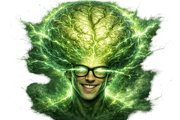
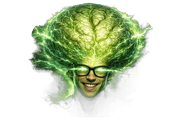
Hel mästarfigur i nyhetsbrevet och animationskälla i repot
fejs10.png var beskuren i topp och botten (cover). Nu passas hela figuren
in i 180x120 utan beskärning, som fejs1. Animationens källfil läggs i
verktyg/ så att den överlever tillfälliga miljöer.

Claude-Session: https://claude.ai/code/session_01HdwMojgAgKRZuA3uKCTgjp

diff --git a/verktyg/animation/anim.html b/verktyg/animation/anim.html
@@ -1,0 +1,303 @@
+<!DOCTYPE html>
+<html lang="sv">
+<head>
+<meta charset="utf-8">
+<title>Ordträningen: från nybörjare till mästare</title>
+<style>
+  /* Deterministisk animation som styrs helt av window.SEEK(t) från renderskriptet.
+     Inga CSS-animationer: varje bildruta beräknas från tiden t. */
+  * { margin: 0; padding: 0; box-sizing: border-box; }
+  html, body { width: 540px; height: 960px; overflow: hidden; }
+  body {
+    font-family: 'Segoe UI', system-ui, -apple-system, sans-serif;
+    background: linear-gradient(180deg, #f8fafc 0%, #eef2ff 100%);
+    color: #1a1a2e;
+    position: relative;
+  }
+
+  /* Bakgrundsord som driver långsamt uppåt bakom allt. */
+  .bgword { position: absolute; left: 0; top: 0; color: #cbd5e1; font-weight: 700; opacity: 0.4;
+    white-space: nowrap; will-change: transform; }
+
+  .brand { position: absolute; top: 64px; width: 100%; text-align: center;
+    font-size: 15px; font-weight: 700; letter-spacing: 0.22em; color: #2563eb; text-transform: uppercase; }
+
+  .headline { position: absolute; top: 96px; width: 100%; text-align: center; line-height: 1.16; }
+  .headline .l1 { display: block; font-size: 44px; font-weight: 800; color: #1a1a2e; }
+  .headline .l2 { display: block; font-size: 44px; font-weight: 800; color: #cbd5e1; }
+
+  /* Ringen ritas i SVG. Ansiktet ligger fritt OVANPÅ, aldrig i en klippande
+     behållare: ingen border-radius, ingen overflow, object-fit contain. */
+  .stage { position: absolute; left: 50%; top: 470px; width: 0; height: 0; }
+  .ringwrap { position: absolute; left: -230px; top: -230px; width: 460px; height: 460px; }
+  .ringwrap svg { display: block; width: 460px; height: 460px; }
+  .face { position: absolute; left: 50%; top: 50%; width: 300px; height: 300px; margin: -150px 0 0 -150px;
+    object-fit: contain; will-change: transform; }
+
+  .chip { position: absolute; top: 742px; width: 100%; text-align: center; }
+  .chip span { display: inline-block; font-size: 19px; font-weight: 800; letter-spacing: 0.09em;
+    text-transform: uppercase; color: #2563eb; background: #eef2ff; border-radius: 999px;
+    padding: 9px 26px; }
+  .chip.gold span { color: #b45309; background: #fffbeb; box-shadow: inset 0 0 0 2px #fde68a; }
+
+  .count { position: absolute; top: 800px; width: 100%; text-align: center;
+    font-size: 24px; color: #64748b; font-variant-numeric: tabular-nums; }
+  .count b { color: #1a1a2e; font-weight: 800; }
+
+  .endpill { position: absolute; top: 856px; width: 100%; text-align: center; }
+  .endpill span { display: inline-block; font-size: 26px; font-weight: 800; color: #fff;
+    background: #2563eb; border-radius: 999px; padding: 13px 34px;
+    box-shadow: 0 12px 30px rgba(37, 99, 235, 0.35); }
+  .endsub { position: absolute; top: 922px; width: 100%; text-align: center; font-size: 16px; color: #64748b; }
+
+  /* Ordchips som flyger in mot ringen. */
+  .flychip { position: absolute; left: 0; top: 0; font-size: 21px; font-weight: 700; color: #1a1a2e;
+    background: #fff; border: 1.5px solid #e2e8f0; border-radius: 999px; padding: 8px 20px;
+    box-shadow: 0 6px 18px rgba(15, 23, 42, 0.08); white-space: nowrap; will-change: transform; }
+
+  .dot { position: absolute; left: 0; top: 0; width: 10px; height: 10px; border-radius: 50%; will-change: transform; }
+  .conf { position: absolute; left: 0; top: 0; width: 10px; height: 16px; border-radius: 2px; will-change: transform; }
+</style>
+</head>
+<body>
+  <div id="bg"></div>
+
+  <div class="brand">Ordträningen på hpakuten.se</div>
+  <div class="headline">
+    <span class="l1" id="hl1">Från nybörjare</span>
+    <span class="l2" id="hl2">till mästare</span>
+  </div>
+
+  <div id="fx"></div>
+
+  <div class="stage">
+    <div class="ringwrap" id="ringwrap">
+      <svg viewBox="0 0 460 460">
+        <circle cx="230" cy="230" r="212" fill="#fff"/>
+        <circle cx="230" cy="230" r="212" fill="none" stroke="#e2e8f0" stroke-width="16"/>
+        <circle id="arc" cx="230" cy="230" r="212" fill="none" stroke="#2563eb" stroke-width="16"
+          stroke-linecap="round" transform="rotate(-90 230 230)"/>
+      </svg>
+      <img class="face" id="face" src="../../public/ordfejs/1.webp" alt="">
+    </div>
+  </div>
+
+  <div class="chip" id="chipbox"><span id="chip">Nivå 1 av 10</span></div>
+  <div class="count" id="count"><b>0</b> av 4 136 ord</div>
+  <div class="endpill" id="endpill"><span>hpakuten.se/ord</span></div>
+  <div class="endsub" id="endsub">Gratis ordträning med smart repetition</div>
+
+<script>
+  // ---------- Hjälpfunktioner ----------
+  const clamp = (v, a, b) => Math.max(a, Math.min(b, v));
+  const lerp = (a, b, p) => a + (b - a) * p;
+  const easeOutCubic = p => 1 - Math.pow(1 - p, 3);
+  const easeInOutQuad = p => p < 0.5 ? 2 * p * p : 1 - Math.pow(-2 * p + 2, 2) / 2;
+  const easeOutBack = p => { const c = 1.70158; return 1 + (c + 1) * Math.pow(p - 1, 3) + c * Math.pow(p - 1, 2); };
+  const fmt = n => Math.round(n).toLocaleString('sv-SE');
+
+  // ---------- Tidslinje ----------
+  // Nivå 1 visas i intro. Nivåbyten sker i slut på varje slot; sloten blir
+  // kortare ju högre nivå (montagekänsla).
+  const INTRO_END = 2.0;
+  const SLOT_DUR = [1.9, 1.7, 1.6, 1.5, 1.4, 1.3, 1.2, 1.1, 1.1]; // nivå 2..10
+  const TARGETS = [0, 30, 100, 220, 420, 720, 1150, 2000, 3000, 4136]; // ord vid nivå 1..10
+  const TOTAL_WORDS = 4136;
+  const slots = [];
+  { let s = INTRO_END;
+    for (let k = 0; k < SLOT_DUR.length; k++) { slots.push({ s0: s, s1: s + SLOT_DUR[k] }); s += SLOT_DUR[k]; } }
+  const FINALE = slots[slots.length - 1].s1;   // 14.8
+  const DURATION = 19.0;
+
+  // ---------- Bakgrundsord ----------
+  const BG_WORDS = ['efemär','prekär','lakonisk','obsolet','gängse','vederhäftig','eklektisk','altruism',
+    'sinekur','dogmatisk','paradigm','utopi','apati','koncis','nogräknad','vedermöda','förment','gemen',
+    'akribi','ambivalent','bespotta','celeber','diskrepans','ekivok'];
+  const bgEls = [];
+  { const bg = document.getElementById('bg');
+    for (let i = 0; i < BG_WORDS.length; i++) {
+      const el = document.createElement('div');
+      el.className = 'bgword';
+      el.textContent = BG_WORDS[i];
+      el.style.fontSize = (14 + (i * 7) % 13) + 'px';
+      bg.appendChild(el);
+      // Deterministiska banor: spridda x-lägen, olika starthöjd och fart.
+      bgEls.push({ el, x: ((i * 137) % 24) * 22 + 8, y0: (i * 331) % 1160, v: 26 + (i * 53) % 22 });
+    } }
+
+  // ---------- Flygande ordchips ----------
+  const FLY_WORDS = ['amper','enveten','habil','idog','celeber','frapperande','gedigen','hätsk','kategorisk',
+    'lukrativ','mangrann','nitisk','obestridlig','pregnant','rannsaka','sardonisk','tillika','vidlyftig'];
+  const flyEls = [];
+  { const fx = document.getElementById('fx');
+    for (let k = 0; k < slots.length; k++) {
+      for (let j = 0; j < 2; j++) {
+        const i = k * 2 + j;
+        const el = document.createElement('div');
+        el.className = 'flychip';
+        el.textContent = FLY_WORDS[i % FLY_WORDS.length];
+        fx.appendChild(el);
+        const fromLeft = (i % 2 === 0);
+        flyEls.push({ el, t0: slots[k].s0 + (j === 0 ? 0.08 : 0.5), dur: 0.75,
+          x0: fromLeft ? -180 : 560, y0: 200 + ((i * 197) % 560), x1: 270, y1: 470 });
+      } } }
+
+  // ---------- Punkter vid nivåbyte ----------
+  const burstEls = [];
+  { const fx = document.getElementById('fx');
+    const COLORS = ['#2563eb', '#9333ea', '#f59e0b', '#16a34a'];
+    for (let k = 0; k < slots.length; k++) {
+      for (let j = 0; j < 12; j++) {
+        const el = document.createElement('div');
+        el.className = 'dot';
+        el.style.background = COLORS[(k + j) % COLORS.length];
+        fx.appendChild(el);
+        const ang = (j / 12) * Math.PI * 2 + (k * 0.4);
+        burstEls.push({ el, t0: slots[k].s1, ang, sp: 190 + ((k * 31 + j * 17) % 60) });
+      } } }
+
+  // ---------- Konfetti i finalen ----------
+  const confEls = [];
+  { const fx = document.getElementById('fx');
+    const COLORS = ['#2563eb', '#9333ea', '#f59e0b', '#16a34a', '#ef4444', '#eab308'];
+    for (let i = 0; i < 110; i++) {
+      const el = document.createElement('div');
+      el.className = 'conf';
+      el.style.background = COLORS[i % COLORS.length];
+      fx.appendChild(el);
+      const ang = (i / 110) * Math.PI * 2 + ((i * 7) % 13) / 13;
+      confEls.push({ el, t0: FINALE + 0.1 + (i % 22) * 0.018, ang,
+        sp: 260 + ((i * 53) % 97) / 97 * 400, rot: 360 + ((i * 29) % 400) });
+    } }
+
+  // ---------- Förladdning av ansikten ----------
+  const FACES = [];
+  for (let i = 1; i <= 10; i++) { const im = new Image(); im.src = '../../public/ordfejs/' + i + '.webp'; FACES.push(im); }
+  window.READY = Promise.all(FACES.map(im => im.decode().catch(() => {})));
+
+  // ---------- Element ----------
+  const $ = id => document.getElementById(id);
+  const arcEl = $('arc'), faceEl = $('face'), chipEl = $('chip'), chipBox = $('chipbox'),
+    countEl = $('count'), hl2 = $('hl2'), ringwrap = $('ringwrap'),
+    endpill = $('endpill'), endsub = $('endsub');
+  const ARC_LEN = 2 * Math.PI * 212;
+  arcEl.style.strokeDasharray = ARC_LEN;
+
+  // ---------- SEEK ----------
+  window.SEEK = function (t) {
+    t = clamp(t, 0, DURATION);
+
+    // Bakgrundsord: konstant drift uppåt, wrappar runt.
+    for (const w of bgEls) {
+      let y = w.y0 - w.v * t;
+      y = ((y % 1160) + 1160) % 1160 - 100;
+      w.el.style.transform = 'translate(' + w.x + 'px,' + y + 'px)';
+    }
+
+    // Aktuell nivå = antal passerade nivåbyten + 1.
+    let level = 1;
+    for (const s of slots) if (t >= s.s1) level++;
+    const lastSwap = level === 1 ? null : slots[level - 2].s1;
+
+    // Räknare och ringbåge: animeras inom aktiv slot.
+    let words = TARGETS[level - 1];
+    if (t < INTRO_END) {
+      words = 0;
+    } else {
+      for (let k = 0; k < slots.length; k++) {
+        const s = slots[k];
+        if (t >= s.s0 && t < s.s1) {
+          const p = easeInOutQuad(clamp((t - s.s0) / ((s.s1 - s.s0) * 0.85), 0, 1));
+          words = lerp(TARGETS[k], TARGETS[k + 1], p);
+        } }
+    }
+    const frac = clamp(words / TOTAL_WORDS, 0, 1);
+    arcEl.style.strokeDashoffset = ARC_LEN * (1 - frac);
+    arcEl.style.opacity = frac > 0.001 ? 1 : 0;
+    countEl.innerHTML = '<b>' + fmt(words) + '</b> av 4 136 ord';
+
+    // Intro: brand/rubrik/ring/chip tonas in.
+    const iP = clamp(t / 0.6, 0, 1);
+    document.querySelector('.brand').style.opacity = iP;
+    document.querySelector('.headline').style.opacity = iP;
+    const ringP = easeOutBack(clamp((t - 0.25) / 0.55, 0, 1));
+    const uiP = clamp((t - 0.9) / 0.4, 0, 1);
+    chipBox.style.opacity = uiP; countEl.style.opacity = uiP;
+
+    // Ansikte: byts vid nivåbyte med studs.
+    faceEl.src = FACES[level - 1].src;
+    let faceScale;
+    if (level === 1) {
+      faceScale = easeOutBack(clamp((t - 0.55) / 0.55, 0, 1));
+    } else {
+      const since = t - lastSwap;
+      faceScale = since < 0.5 ? easeOutBack(clamp(since / 0.5, 0, 1)) : 1;
+      if (level === 10) faceScale *= (t > FINALE + 0.4 ? 1.06 : 1); // mästaren står lite större
+    }
+    faceEl.style.transform = 'scale(' + Math.max(faceScale, 0.001) + ')';
+    let ringScale = ringP;
+    if (level === 10) { // liten puls när sista nivån slår in
+      const p = clamp((t - FINALE) / 0.5, 0, 1);
+      ringScale = 1 + 0.05 * Math.sin(p * Math.PI);
+    }
+    ringwrap.style.transform = 'scale(' + Math.max(ringScale, 0.001) + ')';
+
+    // Chip och rubrikrad 2.
+    if (level >= 10 && t >= FINALE + 0.15) {
+      chipBox.classList.add('gold');
+      chipEl.textContent = 'Mästare · nivå 10 av 10';
+      const gp = easeOutBack(clamp((t - FINALE - 0.15) / 0.5, 0, 1));
+      chipBox.style.transform = 'scale(' + Math.max(0.8 + 0.2 * gp, 0.001) + ')';
+      hl2.style.color = '#b45309';
+      hl2.style.transform = 'scale(' + (1 + 0.08 * Math.sin(clamp((t - FINALE - 0.15) / 0.6, 0, 1) * Math.PI)) + ')';
+    } else {
+      chipBox.classList.remove('gold');
+      chipEl.textContent = 'Nivå ' + level + ' av 10';
+      chipBox.style.transform = 'scale(1)';
+      hl2.style.color = '#cbd5e1';
+      hl2.style.transform = 'scale(1)';
+    }
+
+    // Flygande ordchips.
+    for (const f of flyEls) {
+      const p = (t - f.t0) / f.dur;
+      if (p <= 0 || p >= 1) { f.el.style.opacity = 0; continue; }
+      const e = easeInOutQuad(p);
+      const x = lerp(f.x0, f.x1, e), y = lerp(f.y0, f.y1, e);
+      const sc = 1 - 0.6 * clamp((p - 0.55) / 0.45, 0, 1);
+      f.el.style.opacity = p > 0.8 ? (1 - p) / 0.2 : 1;
+      f.el.style.transform = 'translate(' + x + 'px,' + y + 'px) translate(-50%,-50%) scale(' + sc + ')';
+    }
+
+    // Nivåbytespunkter.
+    for (const b of burstEls) {
+      const p = (t - b.t0) / 0.55;
+      if (p <= 0 || p >= 1) { b.el.style.opacity = 0; continue; }
+      const e = easeOutCubic(p);
+      const x = 270 + Math.cos(b.ang) * b.sp * e;
+      const y = 470 + Math.sin(b.ang) * b.sp * e;
+      b.el.style.opacity = 1 - p;
+      b.el.style.transform = 'translate(' + x + 'px,' + y + 'px)';
+    }
+
+    // Konfetti.
+    for (const c of confEls) {
+      const life = t - c.t0;
+      if (life <= 0 || life > 2.4) { c.el.style.opacity = 0; continue; }
+      const e = easeOutCubic(clamp(life / 1.1, 0, 1));
+      const x = 270 + Math.cos(c.ang) * c.sp * e;
+      const y = 470 + Math.sin(c.ang) * c.sp * e * 0.72 + 300 * life * life * 0.55;
+      c.el.style.opacity = life > 1.7 ? clamp((2.4 - life) / 0.7, 0, 1) : 1;
+      c.el.style.transform = 'translate(' + x + 'px,' + y + 'px) rotate(' + (life * c.rot) + 'deg)';
+    }
+
+    // Slutplatta.
+    const eP = easeOutBack(clamp((t - 16.4) / 0.5, 0, 1));
+    endpill.style.opacity = clamp((t - 16.4) / 0.3, 0, 1);
+    endpill.style.transform = 'scale(' + Math.max(eP, 0.001) + ')';
+    endsub.style.opacity = clamp((t - 16.9) / 0.4, 0, 1);
+  };
+  window.SEEK(0);
+</script>
+</body>
+</html>
